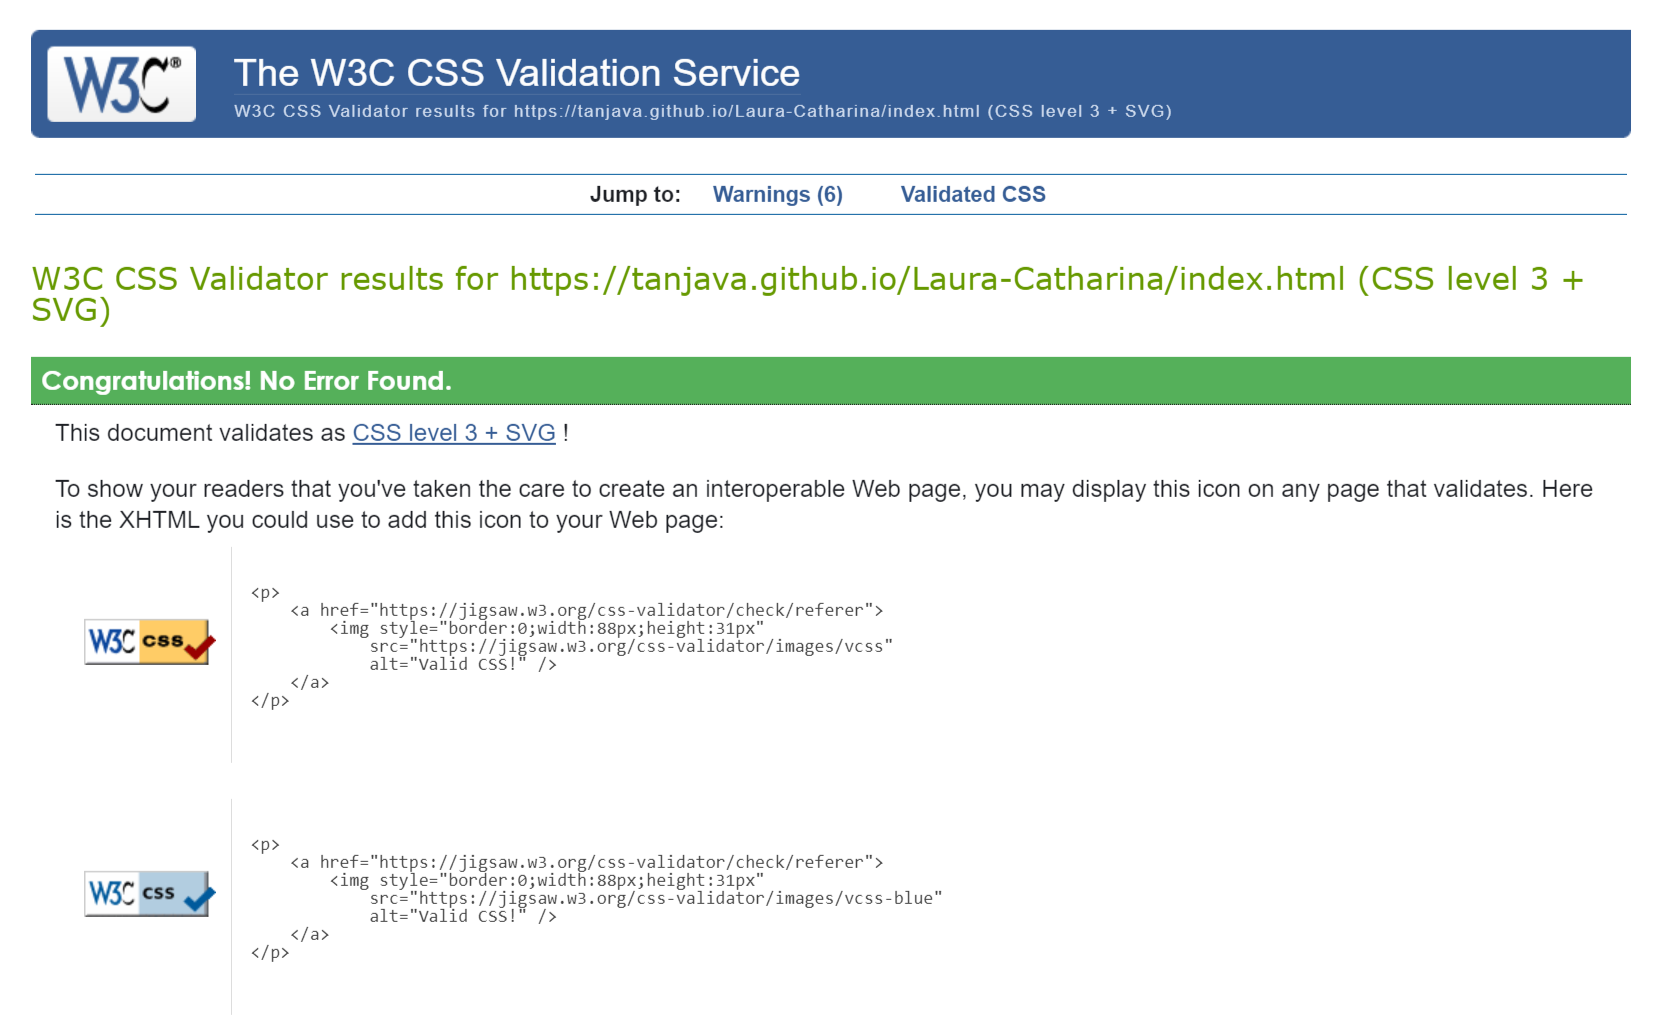
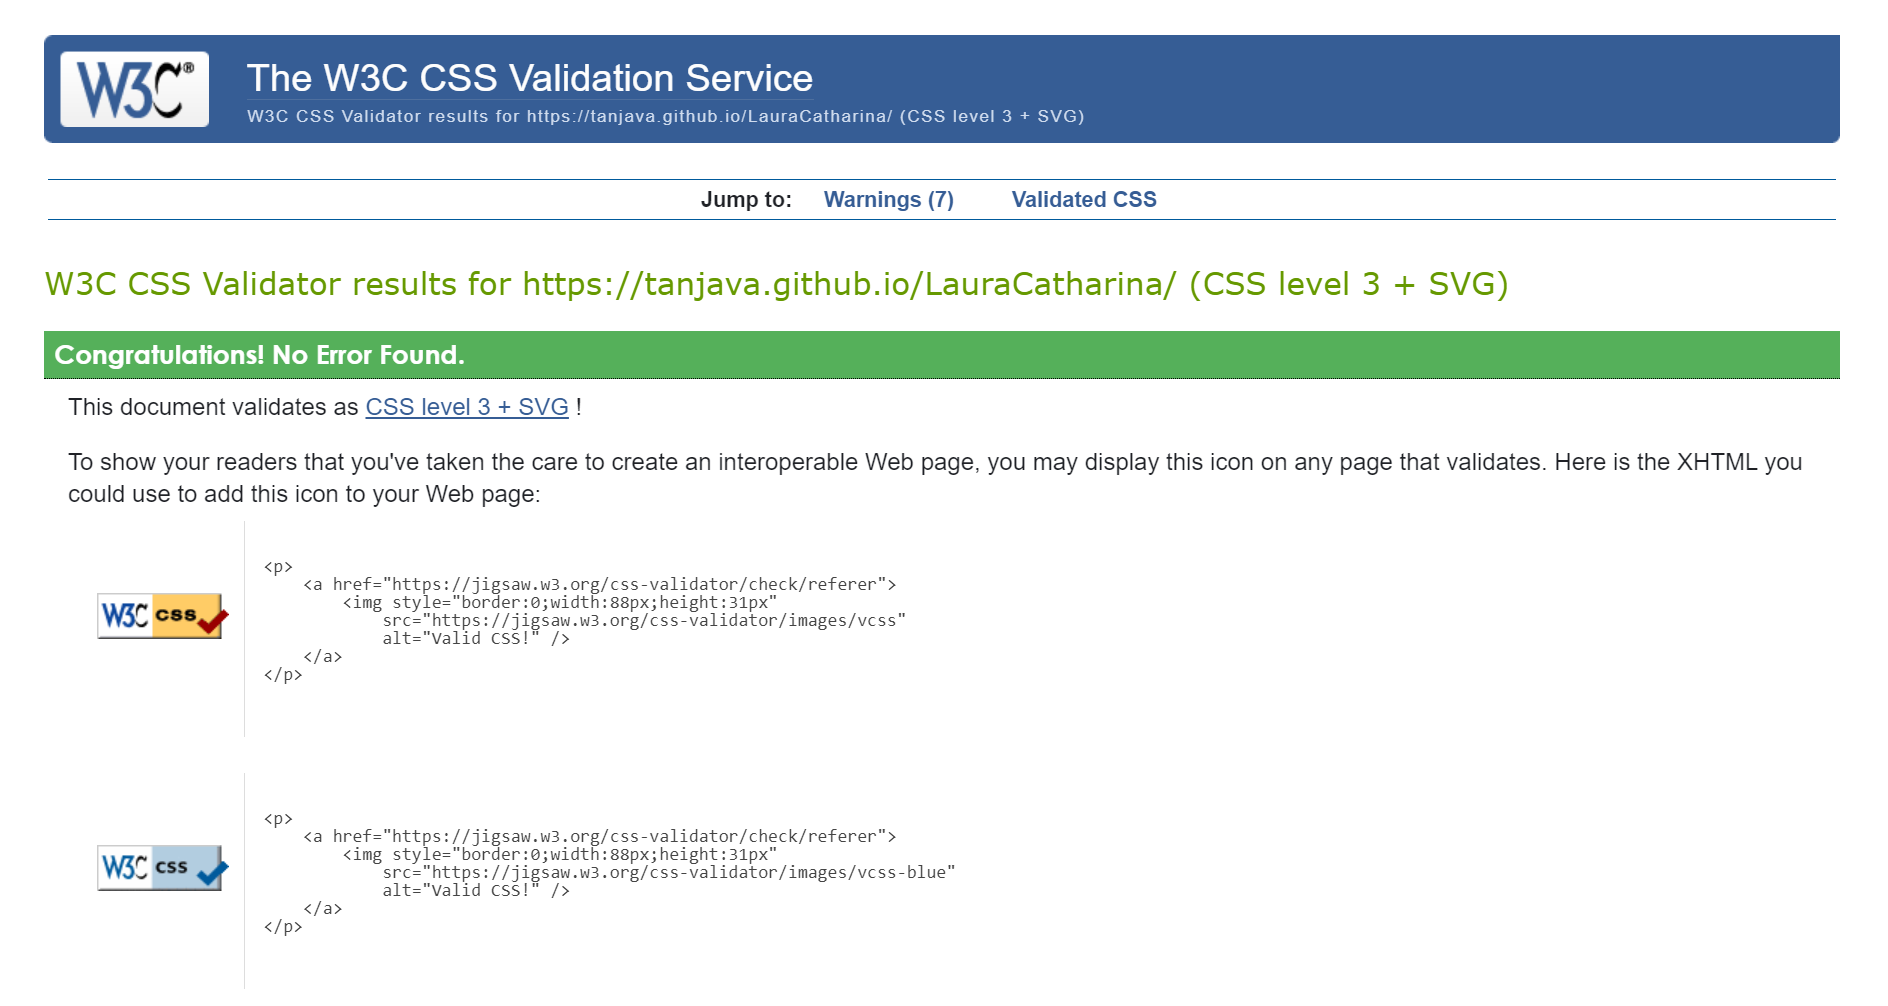
Fix typo README

diff --git a/README.md b/README.md
@@ -39,7 +39,7 @@ The live link for the site can be found here - https://tanjava.github.io/LauraCa
 
 The design for the website was based on this mood board.
 
-<img moodboard src="https://tinyurl.com/bdz6ev6y" width="350">
+<img src="https://tinyurl.com/bdz6ev6y" alt="moodboard" style="width:350">
 
 
 ## Color Scheme
@@ -192,12 +192,12 @@ When I first ran my code through the W3C HTML and CSS validators some sections f
 ## Validator Testing
 
 - HTML
-  - No errors were returned when passing through the official [W3C Validator](https://validator.w3.org/nu/?doc=https%3A%2F%2Fangelicaguimaraes.github.io%2Fmagnolia_tree%2Findex.html)
+  - No errors were returned when passing through the official [W3C Validator](https://validator.w3.org/nu/?doc=https%3A%2F%2Ftanjava.github.io%2FLauraCatharina)
 
 ![W3C HTML Validator](assets/readme-images/LC-html-checker.png)
 
 - CSS
-  - No errors were found when passing through the official ([Jigsaw](http://jigsaw.w3.org/css-validator/validator?lang=en&profile=css3svg&uri=https%3A%2F%2Fangelicaguimaraes.github.io%2Fmagnolia_tree%2Findex.html&usermedium=all&vextwarning=&warning=1)) validator:
+  - No errors were found when passing through the official [Jigsaw Validator](https://jigsaw.w3.org/css-validator/validator?uri=https%3A%2F%2Ftanjava.github.io%2FLauraCatharina%2F&profile=css3svg&usermedium=all&warning=1&vextwarning=&lang=en):
 
 ![W3C CSS Validator](assets/readme-images/LC-css-checker.png)
 
@@ -205,7 +205,7 @@ When I first ran my code through the W3C HTML and CSS validators some sections f
 
 ![Lighthouse Accessibility Audit](assets/readme-images/LC-lighthouse-checker.png)
 
-NB: Although the above screenshots show the results of the home page, the results are the same on every other page of the website.
+NB: Although the above screenshots show the results of the home page, the results are the same for every other page of the website.
 
 
 ## Unfixed Bugs
